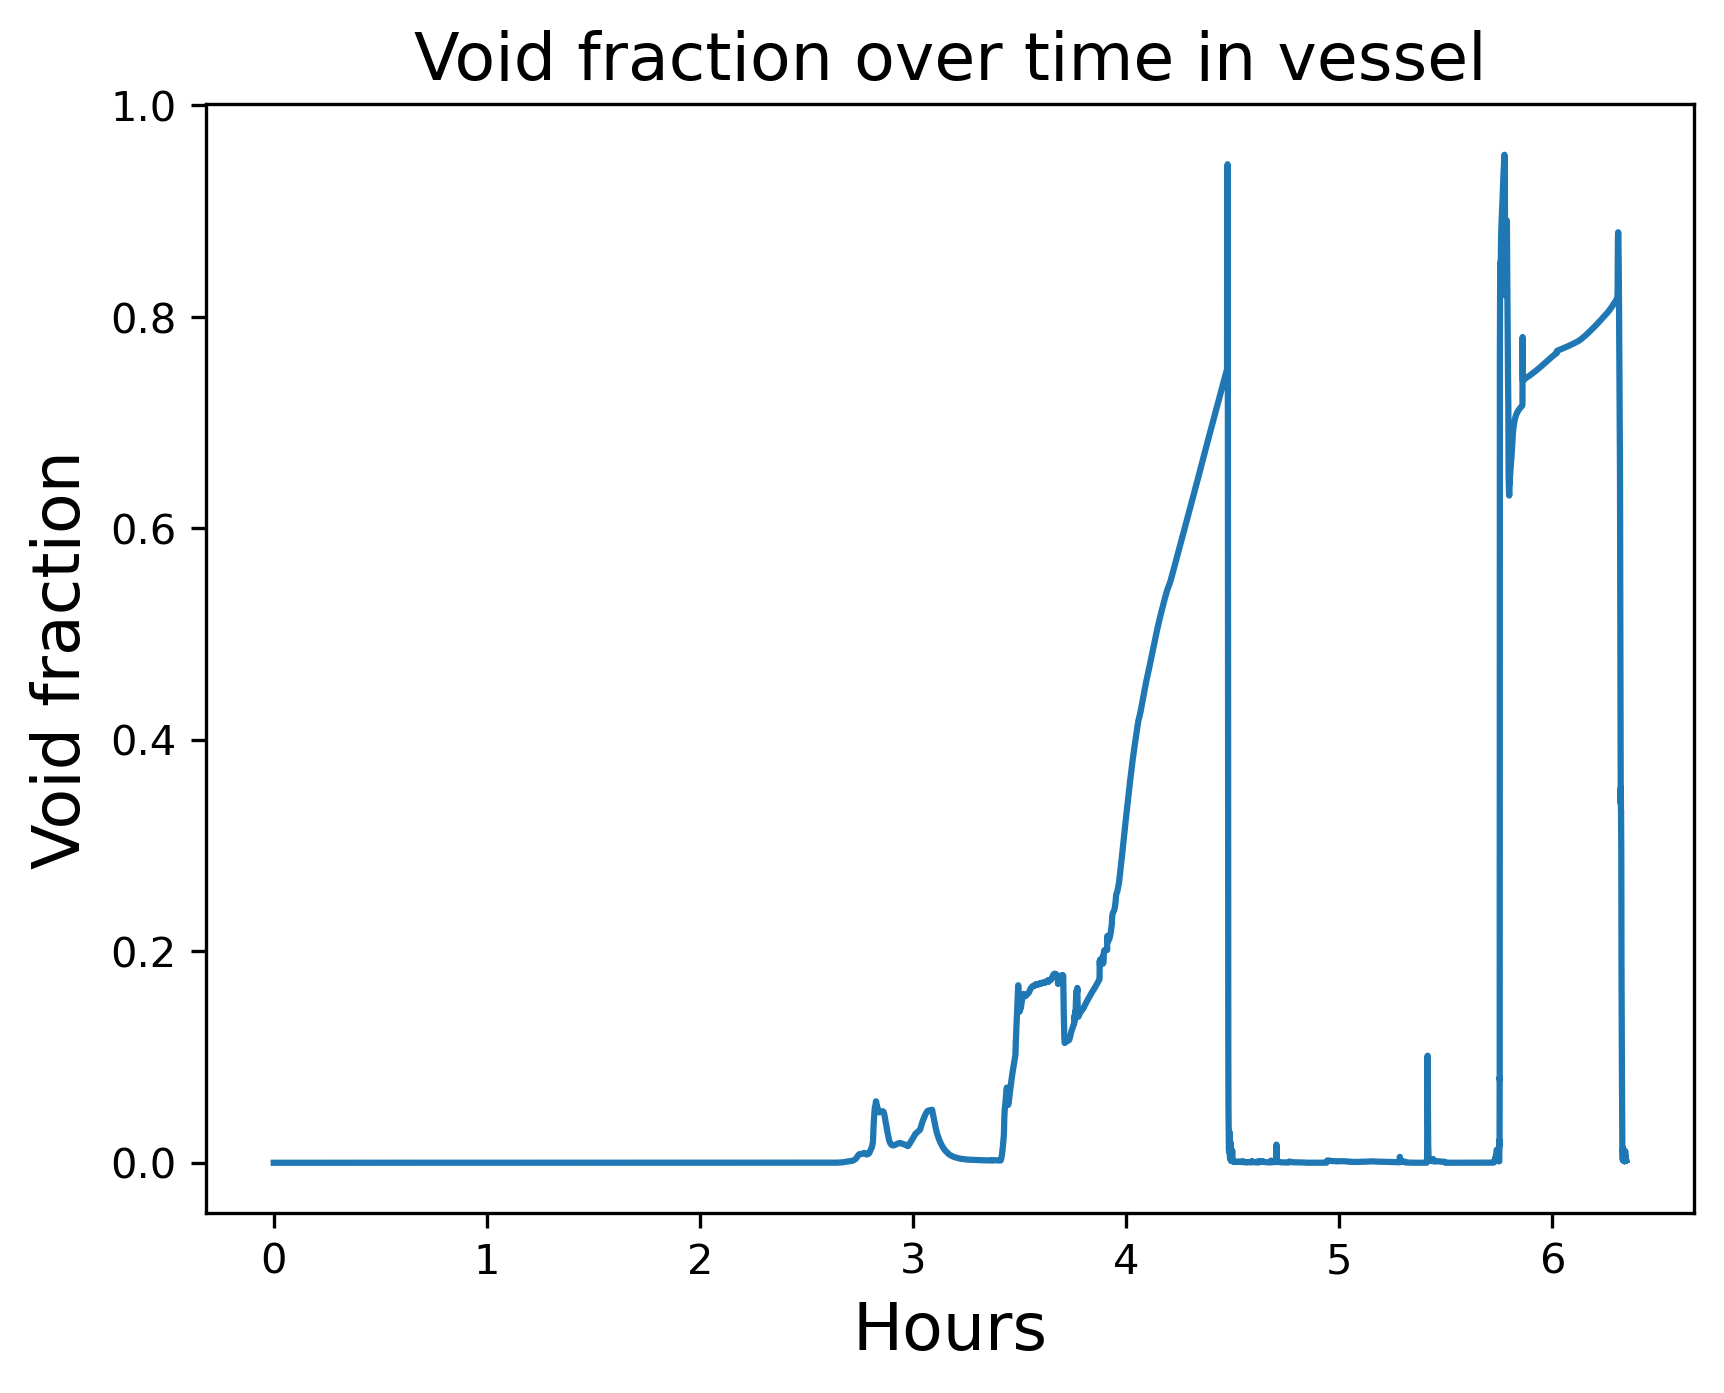
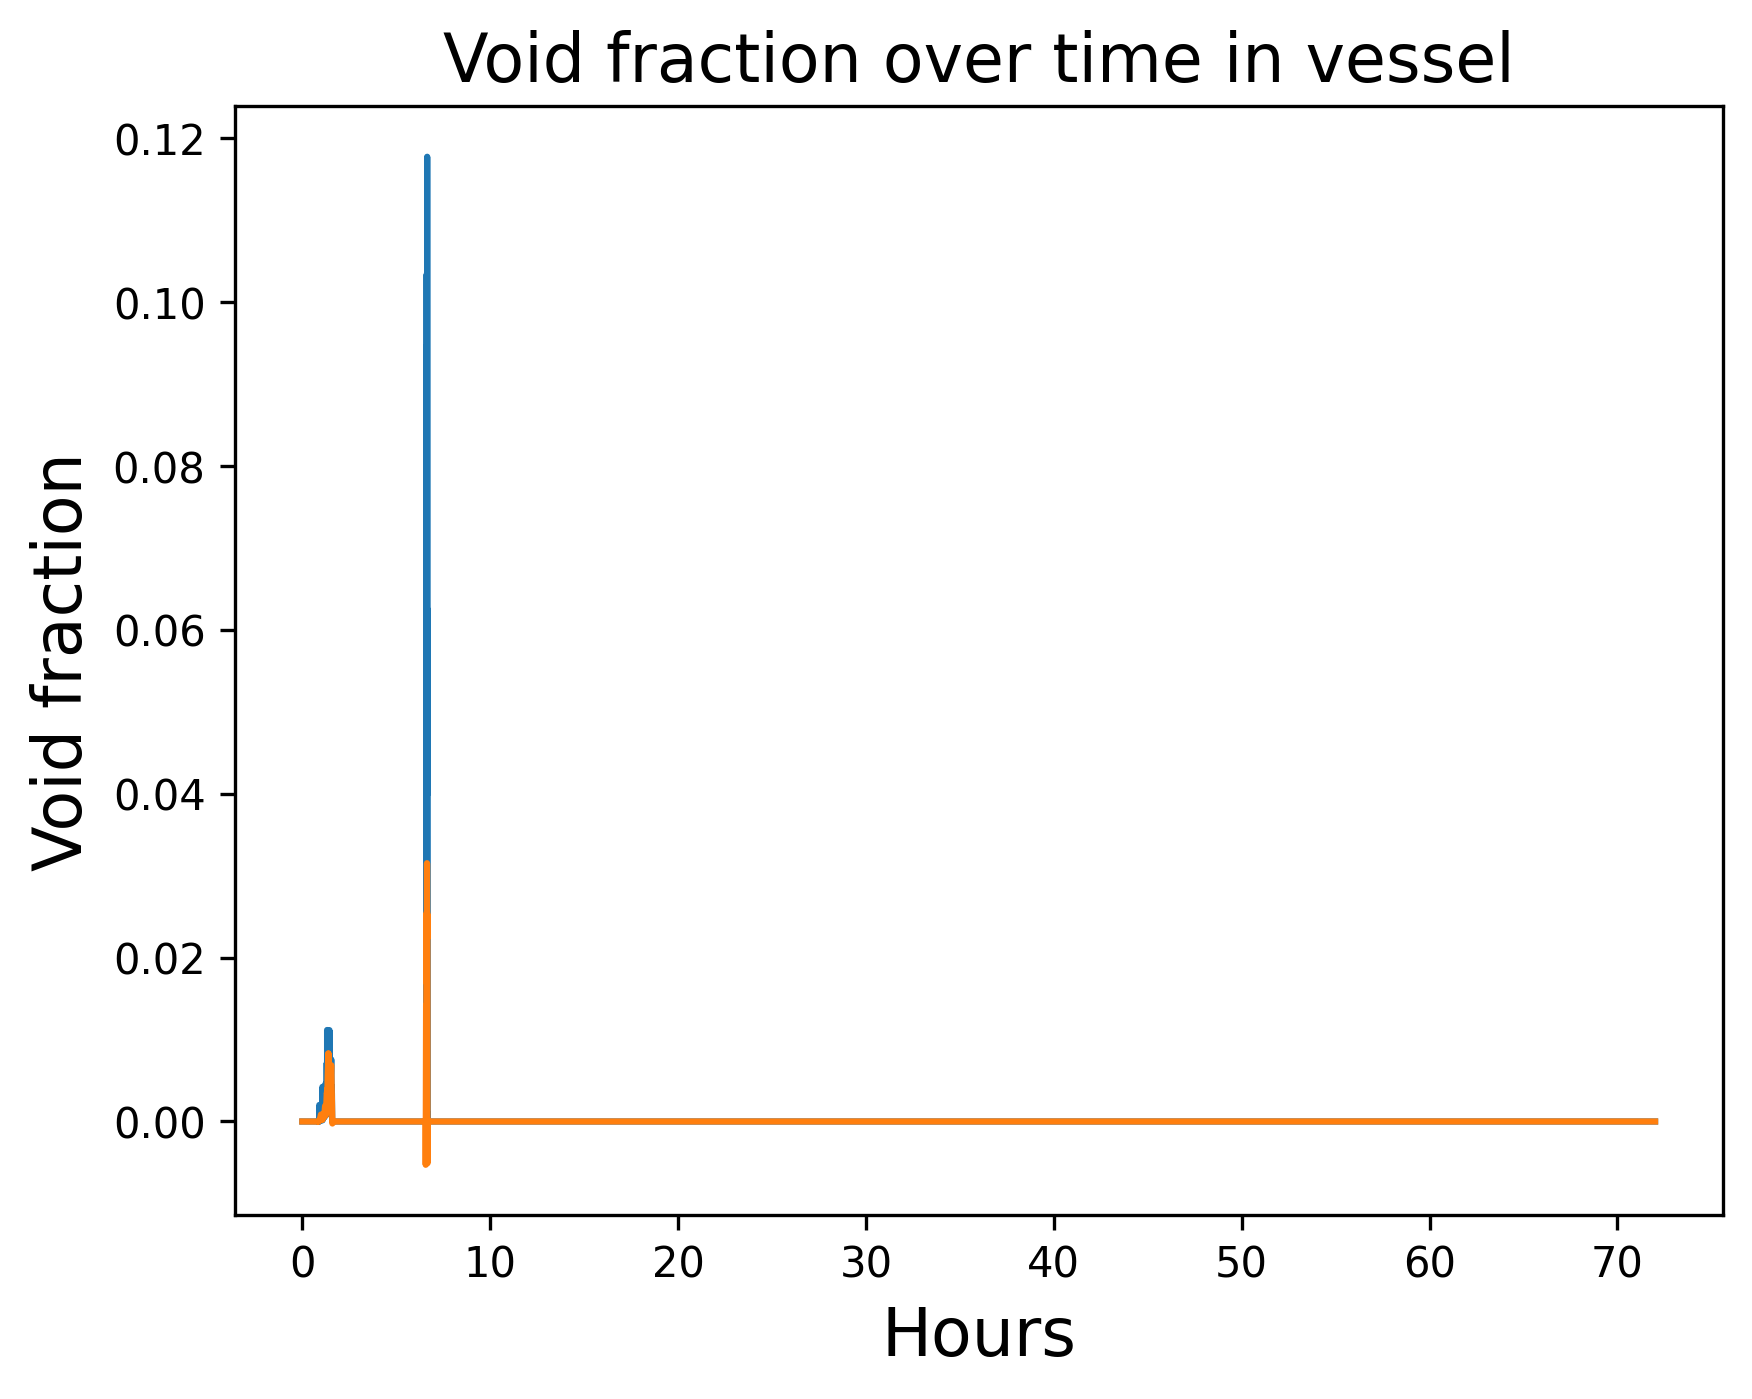
now test works with new slvers

diff --git a/src/dataset_generation/dataset/support_functions.py b/src/dataset_generation/dataset/support_functions.py
@@ -309,13 +309,13 @@ def fill_dictionary_of_variables(output_dict:dict, name:str, f:h5py._hl.files.Fi
         output_dict[name]['VDO'][i]=np.array(VDO[i])[0:index_stop][::subsampling_index]
         output_dict[name]['UPP_V001'][i]=np.array(UPP_V001[i])[0:index_stop][::subsampling_index]
         
-    next_time_step = f['dimensions/time_points'][1:index_stop]
-    previous_time_step = f['dimensions/time_points'][0:index_stop-1]
+    Time = f['dimensions/time_points'][:index_stop][::subsampling_index]
+    next_time_step = Time[1:]
+    previous_time_step = Time[:-1]
     DT = next_time_step - previous_time_step
-    DT = np.concatenate([next_time_step - previous_time_step, [DT[-1]]])[::subsampling_index]
-    
-    output_dict[name]['UPP_V001']['dt']=DT #used by AE_NODE
-    output_dict[name]['UPP_V001']['time']=f['dimensions/time_points'][0:index_stop][::subsampling_index]#used by ONLY_DECODER
+    DT = np.concatenate([next_time_step - previous_time_step, [DT[-1]]])
+    output_dict[name]['UPP_V001']['dt']= DT #used by AE_NODE
+    output_dict[name]['UPP_V001']['time']= Time #used by ONLY_DECODER
 
 def extract_input_output_bc_variables(path, index_simulation:str, subsampling_index:int):
     output_dict = {}

diff --git a/src/models/AE_NODE/testing/support_functions.py b/src/models/AE_NODE/testing/support_functions.py
@@ -23,12 +23,13 @@ def fill_in_dictionaries_autoencoder_step(trajectory:str, reconstructed_fields_p
     return 0
 
 class TrainingConfig:
-    def __init__(self, training_config:dict, f: F_Latent, device:tc.device):
+    def __init__(self, training_config:dict, f: F_Latent, device:tc.device, substep_RK4:int):
         # Required for processor_First_Order
         self.k = training_config['k']  # RK order (1 for Euler method)
         self.device = device
         self.f = f  # The dynamics function f(latent, boundaries)
         self.RK = {k: tc.tensor([[safe_eval(val) for val in row] for row in v]) for k, v in training_config['RK'].items()}
+        self.substep_RK4 = substep_RK4
         
 def safe_eval( val):
     if isinstance(val, str):
@@ -137,14 +138,14 @@ def RMSE(input:tc.tensor, target:tc.tensor, per_time_step: bool = False):
     target = target.double().squeeze(0)
     loss = nn.MSELoss(reduction='none')
     array_of_errors = []
-    e = loss(input, target) ** 0.5
+    e = loss(input, target) 
     where_to_contract = tuple(np.arange(2,len(input.size()),1))
     if len(input.size())>2:
-        e = e.mean(dim = where_to_contract)
+        e = e.mean(dim = where_to_contract)** 0.5
     if per_time_step:
         array_of_errors.append(e)
     else:
-        e = e.mean(0)
+        e = e.mean(0)** 0.5
         array_of_errors.append(e)
     return array_of_errors
 

diff --git a/src/models/AE_NODE/training/training_validation_functions.py b/src/models/AE_NODE/training/training_validation_functions.py
@@ -512,8 +512,9 @@ class Training():
                                                                                     self.parent.all_on_gpu, self.parent.pin_memory, self.parent.indeces_training_boundaries, self.parent.indeces_validation_boundaries, self.parent.preload_to_ram)
         self.parent.before_next_window_change = self.parent.waiting_epochs_before_new_dataset_creation[self.parent.how_many_datasets_creations]
         self.parent.how_many_datasets_creations+=1
-        os.remove(f"{self.parent.data_training_path_dynamic}{str(self.parent.time_windows[self.parent.how_many_datasets_creations-2])}{self.parent.indeces_training_boundaries}.h5")
-        os.remove(f"{self.parent.data_validation_path_dynamic}{str(self.parent.time_windows[self.parent.how_many_datasets_creations-2])}{self.parent.indeces_validation_boundaries}.h5")
+        if str(self.parent.time_windows[self.parent.how_many_datasets_creations-2]) != str(self.parent.time_windows[self.parent.how_many_datasets_creations-1]):
+            os.remove(f"{self.parent.data_training_path_dynamic}{str(self.parent.time_windows[self.parent.how_many_datasets_creations-2])}{self.parent.indeces_training_boundaries}.h5")
+            os.remove(f"{self.parent.data_validation_path_dynamic}{str(self.parent.time_windows[self.parent.how_many_datasets_creations-2])}{self.parent.indeces_validation_boundaries}.h5")
         
         #fetch the best model of previous iteration
         if self.parent.reinitialize_model_at_each_dataset_reshape:

diff --git a/src/models/AE_NODE/testing/model_test.py b/src/models/AE_NODE/testing/model_test.py
@@ -51,6 +51,7 @@ class Model_Test:
         
         self.directory_images_Operator_Actions = self.directory_images + '/Operator_Actions'
         self.which_processor = information['which_processor']
+        self.substep_RK4 = information['substep_RK4']
         
         #build necessary directories to save images
         os.makedirs(self.directory_images, exist_ok=True)
@@ -125,7 +126,7 @@ class Model_Test:
         #get trajectories
         with h5py.File(self.path_to_test_data + self.name_test_file, 'r') as f:
             self.trajectories = list(f.keys())
-        config_processor = TrainingConfig(self.models_information, self.f, self.device )
+        config_processor = TrainingConfig(self.models_information, self.f, self.device, self.substep_RK4 )
         self.training_losses = Training_Losses(config_processor)
         
     def build_directories(self, name:str, AE:bool = False):